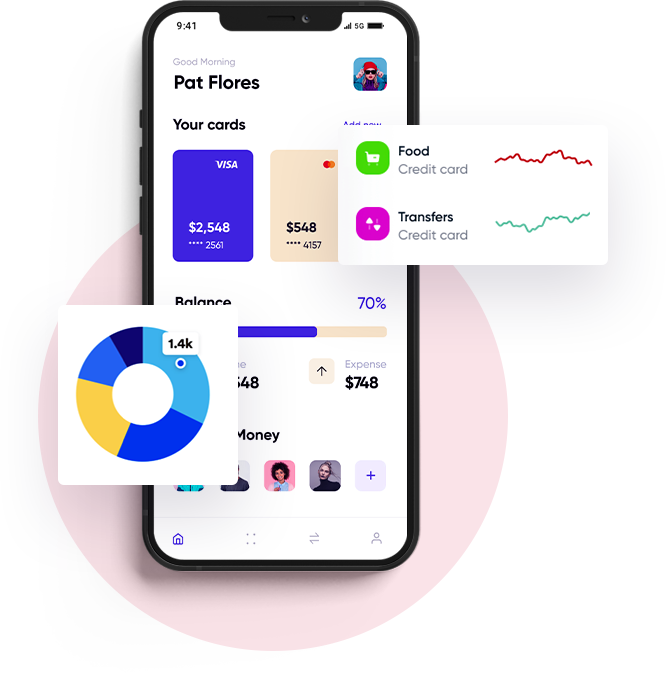
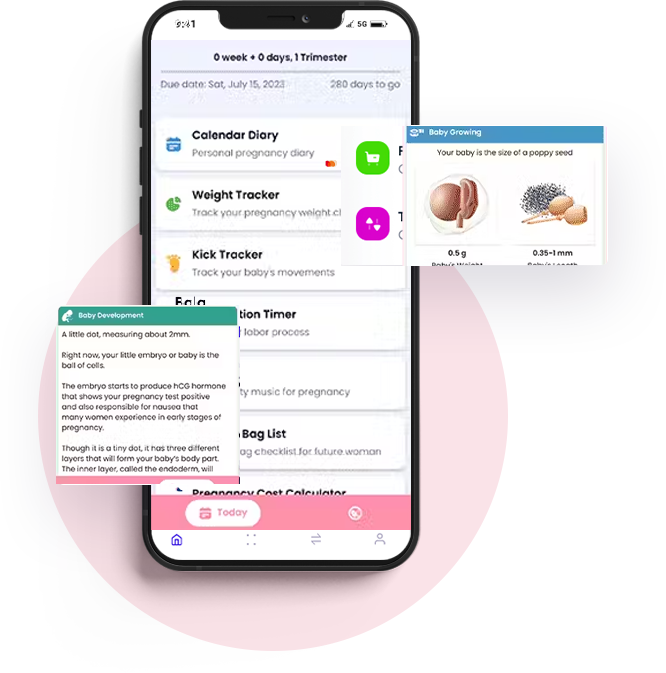
j

Changed region(s): [[0.0601, 0.0, 0.9309, 0.8425], [0.2402, 0.0, 0.3303, 0.0624], [0.7808, 0.3744, 0.8709, 0.4056]]

diff --git a/src/layout/Header/Navbar.js b/src/layout/Header/Navbar.js
@@ -116,7 +116,7 @@ const Navbar = ({ navDark, insurance, classOption }) => {
           <div className="clearfix"></div>
           <div className="collapse navbar-collapse justify-content-center">
             <ul className="nav col-12 col-md-auto justify-content-center main-menu">
-             <li className>
+             {/* <li className>
                 <a
                  className="nav-link dropdown-toggle"
                  href="#"
@@ -166,7 +166,7 @@ const Navbar = ({ navDark, insurance, classOption }) => {
                     </div>
                   </div>
                 </div> 
-              </li> 
+              </li>  */}
               <li>
                 <Link href="/">
                   <a className="nav-link">Home</a>
